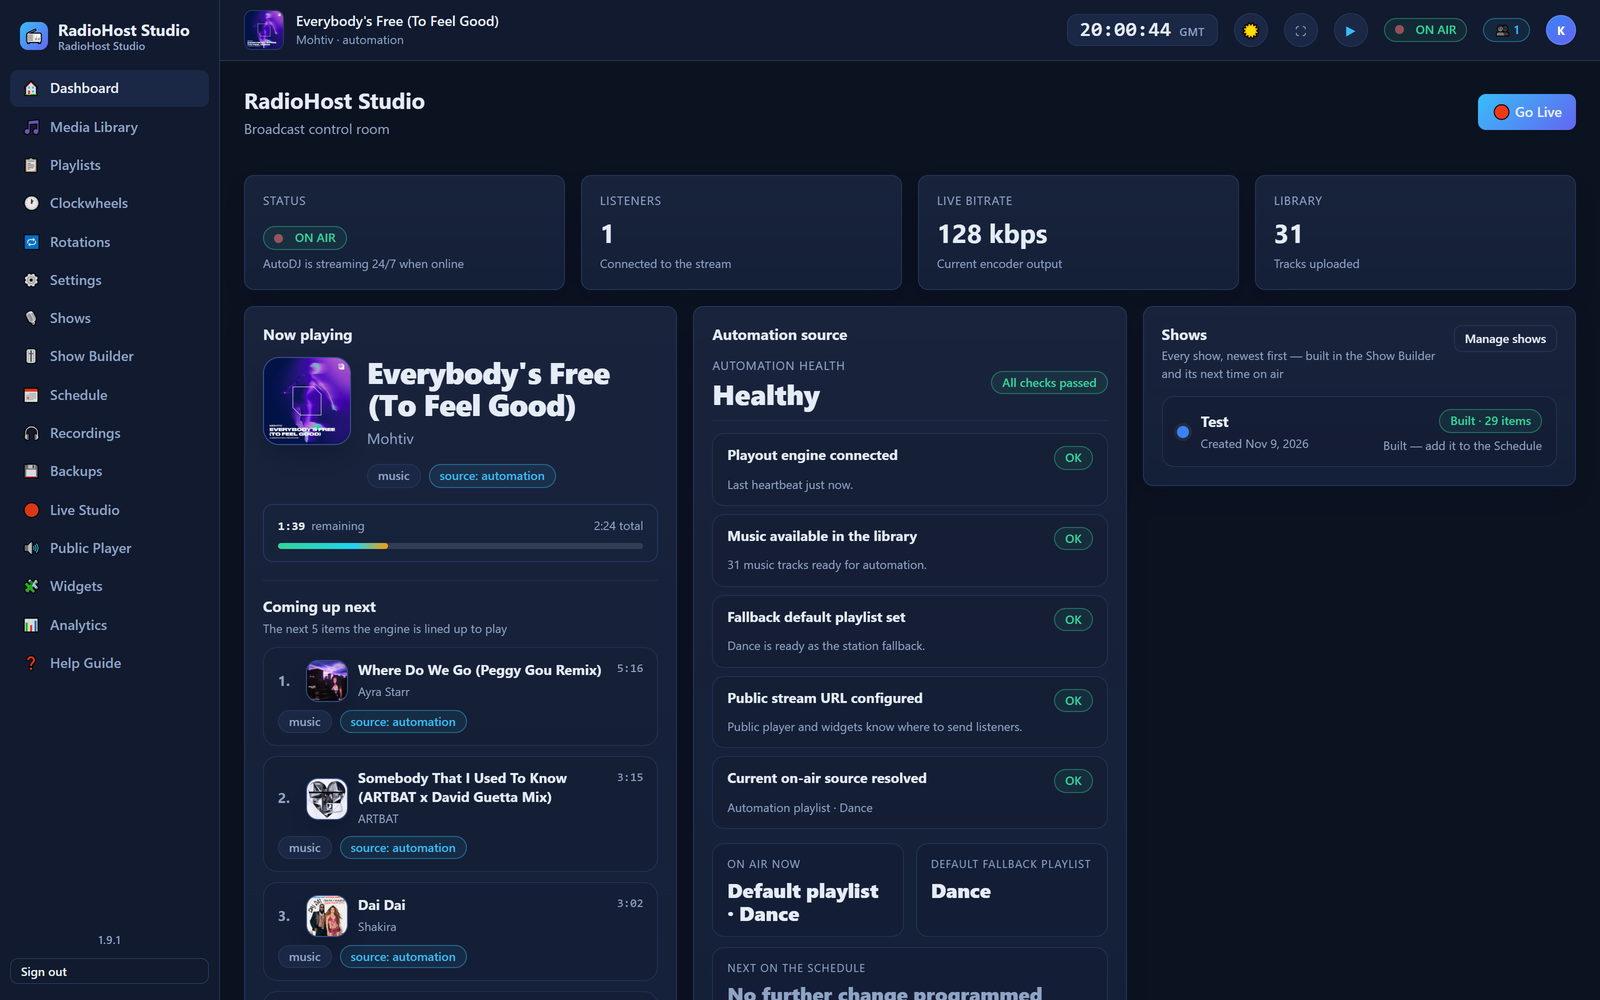
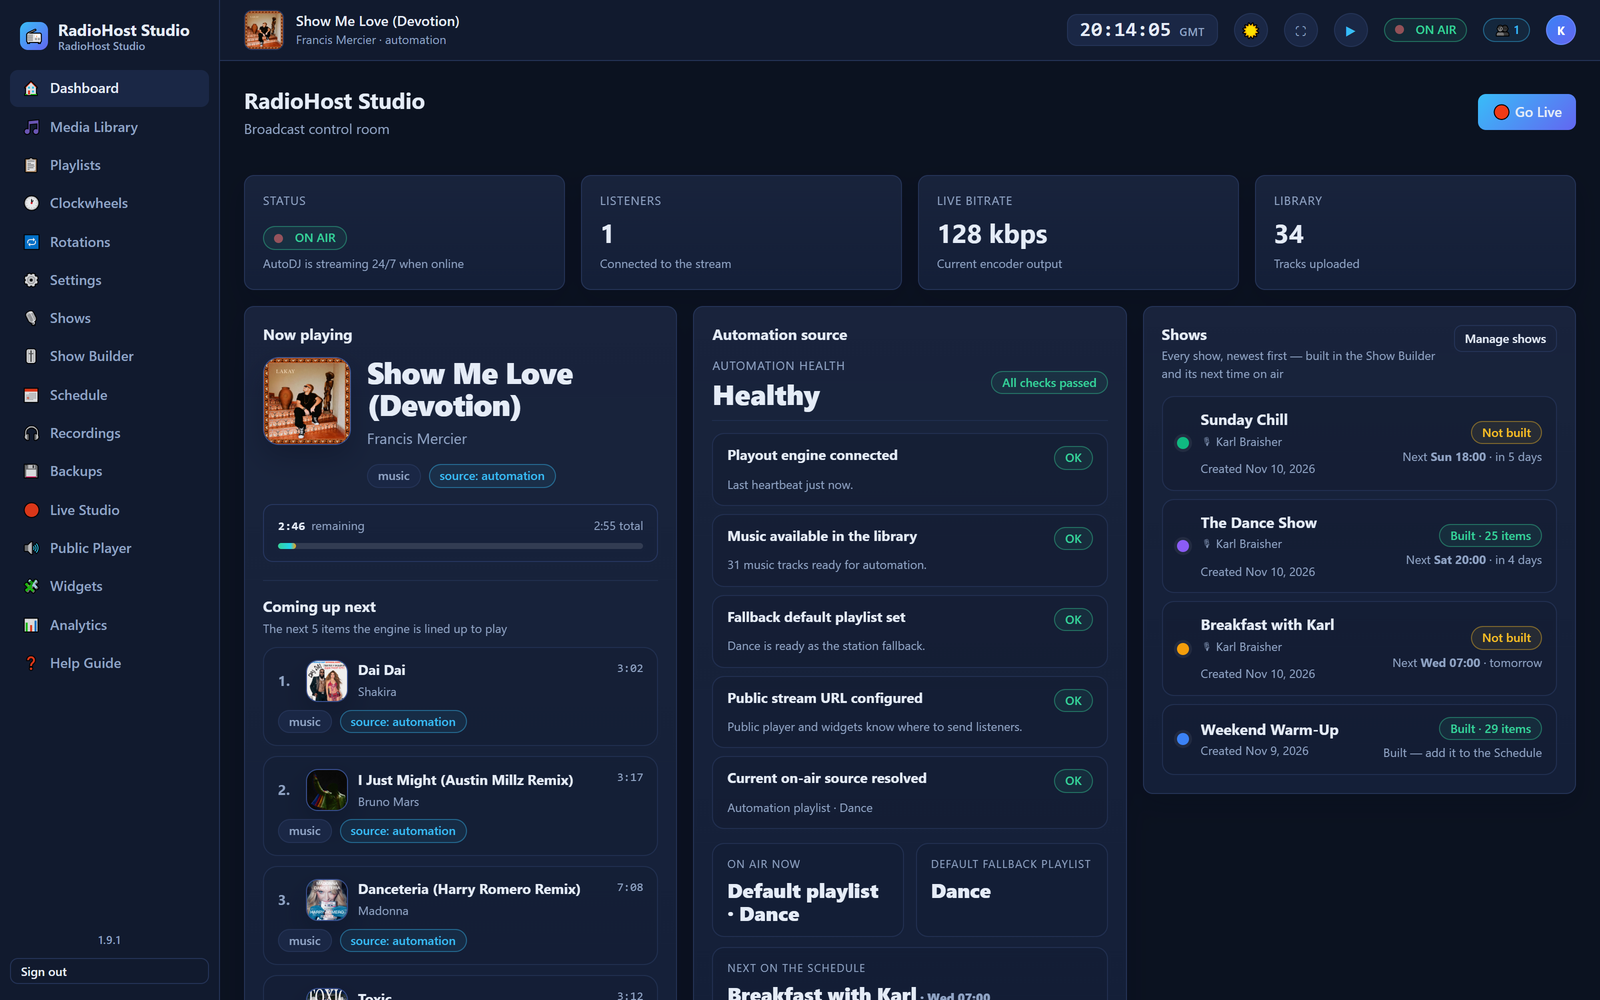
Add Show Builder, schedule, clockwheel and Listen Again screenshots

diff --git a/README.md b/README.md
@@ -10,15 +10,23 @@ pages for your listeners — everything installed with one script.
 
 ## Screenshots
 
-![RadioHost Studio dashboard: what's on air, automation health, next up](docs/screenshots/dashboard.png)
+![RadioHost Studio dashboard: what's on air, automation health and next up](docs/screenshots/dashboard.png)
 
 | Media Library | Live Studio |
 | --- | --- |
 | ![Media library with cover art, folders, kinds and formats](docs/screenshots/media-library.png) | ![Live Studio: two decks with waveforms, eight jingle carts, mic and master levels](docs/screenshots/live-studio.png) |
 
-| Listener analytics | Public player |
+| Show Builder | Clockwheels |
 | --- | --- |
-| ![Analytics: listeners over time and top tracks](docs/screenshots/analytics.png) | ![Public player with now playing artwork and listen live](docs/screenshots/player.png) |
+| ![Show Builder: a rundown of music tracks, voice links and jingles with Quick build](docs/screenshots/show-builder.png) | ![Clockwheel editor: station ID, music rotation, jingle and ad break slots](docs/screenshots/clockwheels.png) |
+
+| Weekly schedule | Listen Again |
+| --- | --- |
+| ![Weekly schedule grid with breakfast, dance and Sunday shows](docs/screenshots/schedule.png) | ![Listen Again episode cards with show colours and playback](docs/screenshots/listen-again.png) |
+
+| Public player | Analytics |
+| --- | --- |
+| ![Public player with now playing artwork and listen live](docs/screenshots/player.png) | ![Analytics: listeners over time and top tracks](docs/screenshots/analytics.png) |
 
 ## What it does
 
